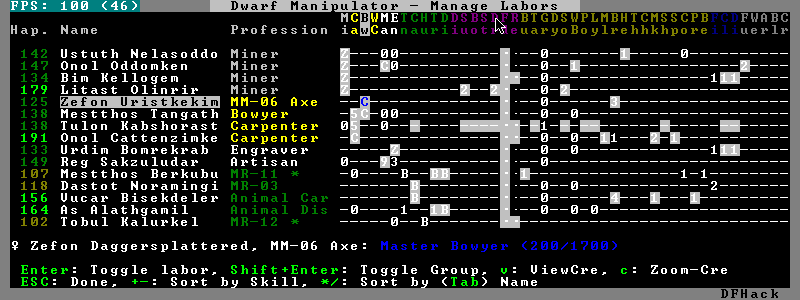
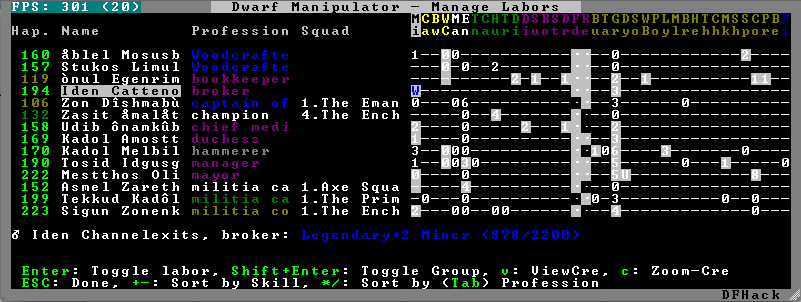
Update documentation related to Dwarf Manipulator's squad column

diff --git a/Readme.html b/Readme.html
@@ -3,7 +3,7 @@
 <html xmlns="http://www.w3.org/1999/xhtml" xml:lang="en" lang="en">
 <head>
 <meta http-equiv="Content-Type" content="text/html; charset=utf-8" />
-<meta name="generator" content="Docutils 0.11: http://docutils.sourceforge.net/" />
+<meta name="generator" content="Docutils 0.12: http://docutils.sourceforge.net/" />
 <title>DFHack Readme</title>
 <style type="text/css">
 
@@ -3374,9 +3374,9 @@ you must enable the plugins which provide them.</p>
 <img alt="images/manipulator.png" src="images/manipulator.png" />
 <p>This tool implements a Dwarf Therapist-like interface within the game UI. The
 far left column displays the unit's Happiness (color-coded based on its
-value), and the right half of the screen displays each dwarf's labor settings
-and skill levels (0-9 for Dabbling thru Professional, A-E for Great thru Grand
-Master, and U-Z for Legendary thru Legendary+5).</p>
+value), Name, Profession, Squad, and the right half of the screen displays each dwarf's
+labor settings and skill levels (0-9 for Dabbling thru Professional, A-E for Great
+thru Grand Master, and U-Z for Legendary thru Legendary+5).</p>
 <p>Cells with teal backgrounds denote skills not controlled by labors, e.g.
 military and social skills.</p>
 <img alt="images/manipulator2.png" src="images/manipulator2.png" />
@@ -3389,19 +3389,19 @@ in the list. Backspace seeks to the top left corner.</p>
 to toggle all labors within the selected category.</p>
 <p>Press the <tt class="docutils literal">+-</tt> keys to sort the unit list according to the currently selected
 skill/labor, and press the <tt class="docutils literal">*/</tt> keys to sort the unit list by Name, Profession,
-Happiness, or Arrival order (using Tab to select which sort method to use here).</p>
+Squad, Happiness, or Arrival order (using Tab to select which sort method to use here).</p>
 <p>With a unit selected, you can press the &quot;v&quot; key to view its properties (and
 possibly set a custom nickname or profession) or the &quot;c&quot; key to exit
 Manipulator and zoom to its position within your fortress.</p>
 <p>The following mouse shortcuts are also available:</p>
 <ul class="simple">
 <li>Click on a column header to sort the unit list. Left-click to sort it in one
-direction (descending for happiness or labors/skills, ascending for name or
-profession) and right-click to sort it in the opposite direction.</li>
+direction (descending for happiness or labors/skills, ascending for name,
+profession or squad) and right-click to sort it in the opposite direction.</li>
 <li>Left-click on a labor cell to toggle that labor. Right-click to move the
 cursor onto that cell instead of toggling it.</li>
-<li>Left-click on a unit's name or profession to view its properties.</li>
-<li>Right-click on a unit's name or profession to zoom to it.</li>
+<li>Left-click on a unit's name, profession or squad to view its properties.</li>
+<li>Right-click on a unit's name, profession or squad to zoom to it.</li>
 </ul>
 <p>Pressing ESC normally returns to the unit screen, but Shift-ESC would exit
 directly to the main dwarf mode screen.</p>

diff --git a/Readme.rst b/Readme.rst
@@ -2523,9 +2523,9 @@ To activate, open the unit screen and press 'l'.
 
 This tool implements a Dwarf Therapist-like interface within the game UI. The
 far left column displays the unit's Happiness (color-coded based on its
-value), and the right half of the screen displays each dwarf's labor settings
-and skill levels (0-9 for Dabbling thru Professional, A-E for Great thru Grand
-Master, and U-Z for Legendary thru Legendary+5).
+value), Name, Profession, Squad, and the right half of the screen displays each dwarf's 
+labor settings and skill levels (0-9 for Dabbling thru Professional, A-E for Great 
+thru Grand Master, and U-Z for Legendary thru Legendary+5).
 
 Cells with teal backgrounds denote skills not controlled by labors, e.g.
 military and social skills.
@@ -2544,7 +2544,7 @@ to toggle all labors within the selected category.
 
 Press the ``+-`` keys to sort the unit list according to the currently selected
 skill/labor, and press the ``*/`` keys to sort the unit list by Name, Profession,
-Happiness, or Arrival order (using Tab to select which sort method to use here).
+Squad, Happiness, or Arrival order (using Tab to select which sort method to use here).
 
 With a unit selected, you can press the "v" key to view its properties (and
 possibly set a custom nickname or profession) or the "c" key to exit
@@ -2553,12 +2553,12 @@ Manipulator and zoom to its position within your fortress.
 The following mouse shortcuts are also available:
 
 * Click on a column header to sort the unit list. Left-click to sort it in one
-  direction (descending for happiness or labors/skills, ascending for name or
-  profession) and right-click to sort it in the opposite direction.
+  direction (descending for happiness or labors/skills, ascending for name,
+  profession or squad) and right-click to sort it in the opposite direction.
 * Left-click on a labor cell to toggle that labor. Right-click to move the
   cursor onto that cell instead of toggling it.
-* Left-click on a unit's name or profession to view its properties.
-* Right-click on a unit's name or profession to zoom to it.
+* Left-click on a unit's name, profession or squad to view its properties.
+* Right-click on a unit's name, profession or squad to zoom to it.
 
 Pressing ESC normally returns to the unit screen, but Shift-ESC would exit
 directly to the main dwarf mode screen.
